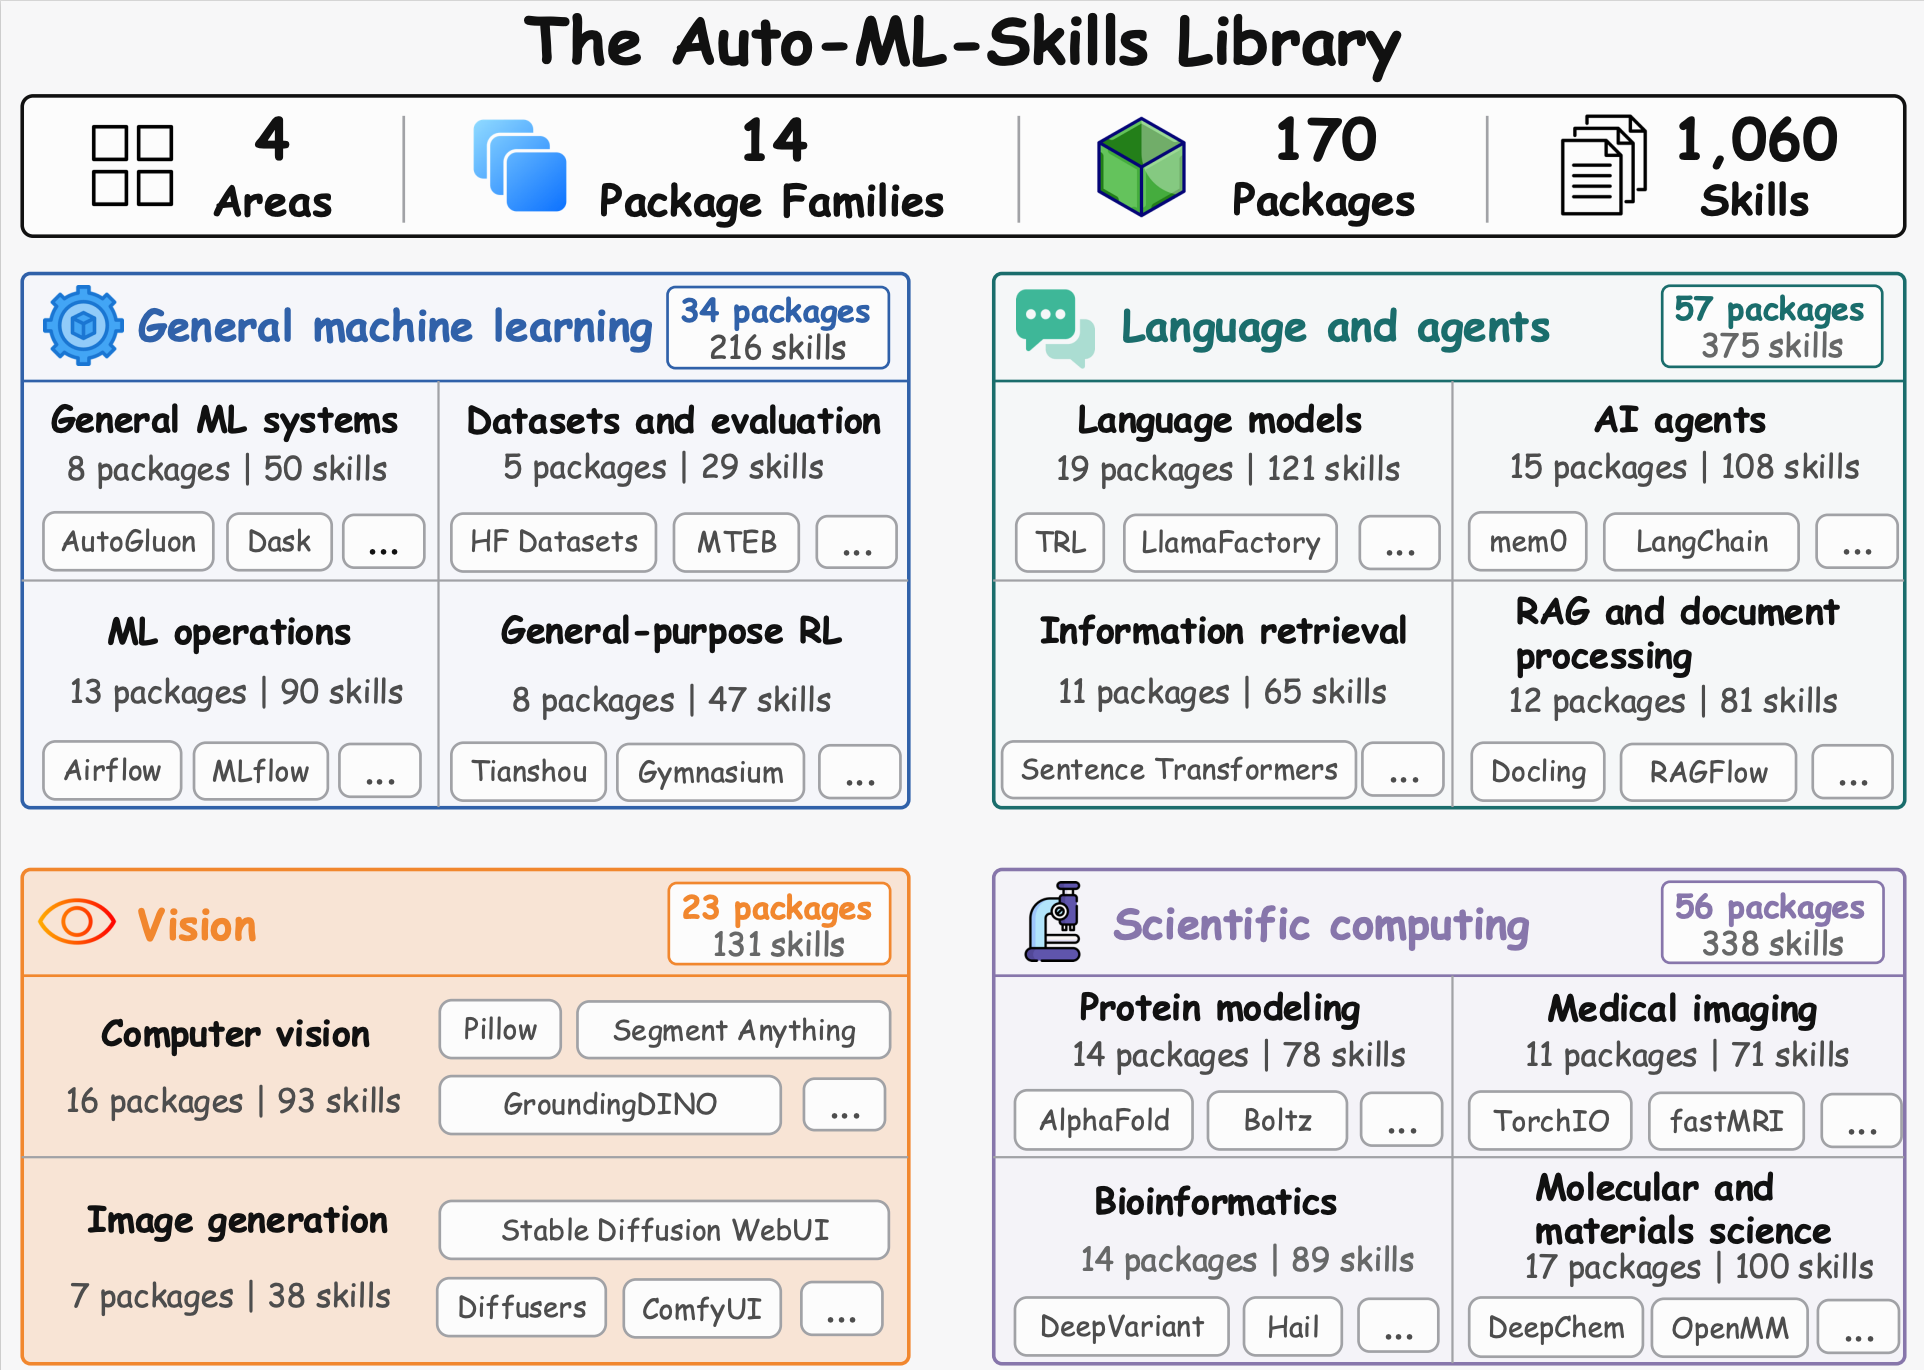
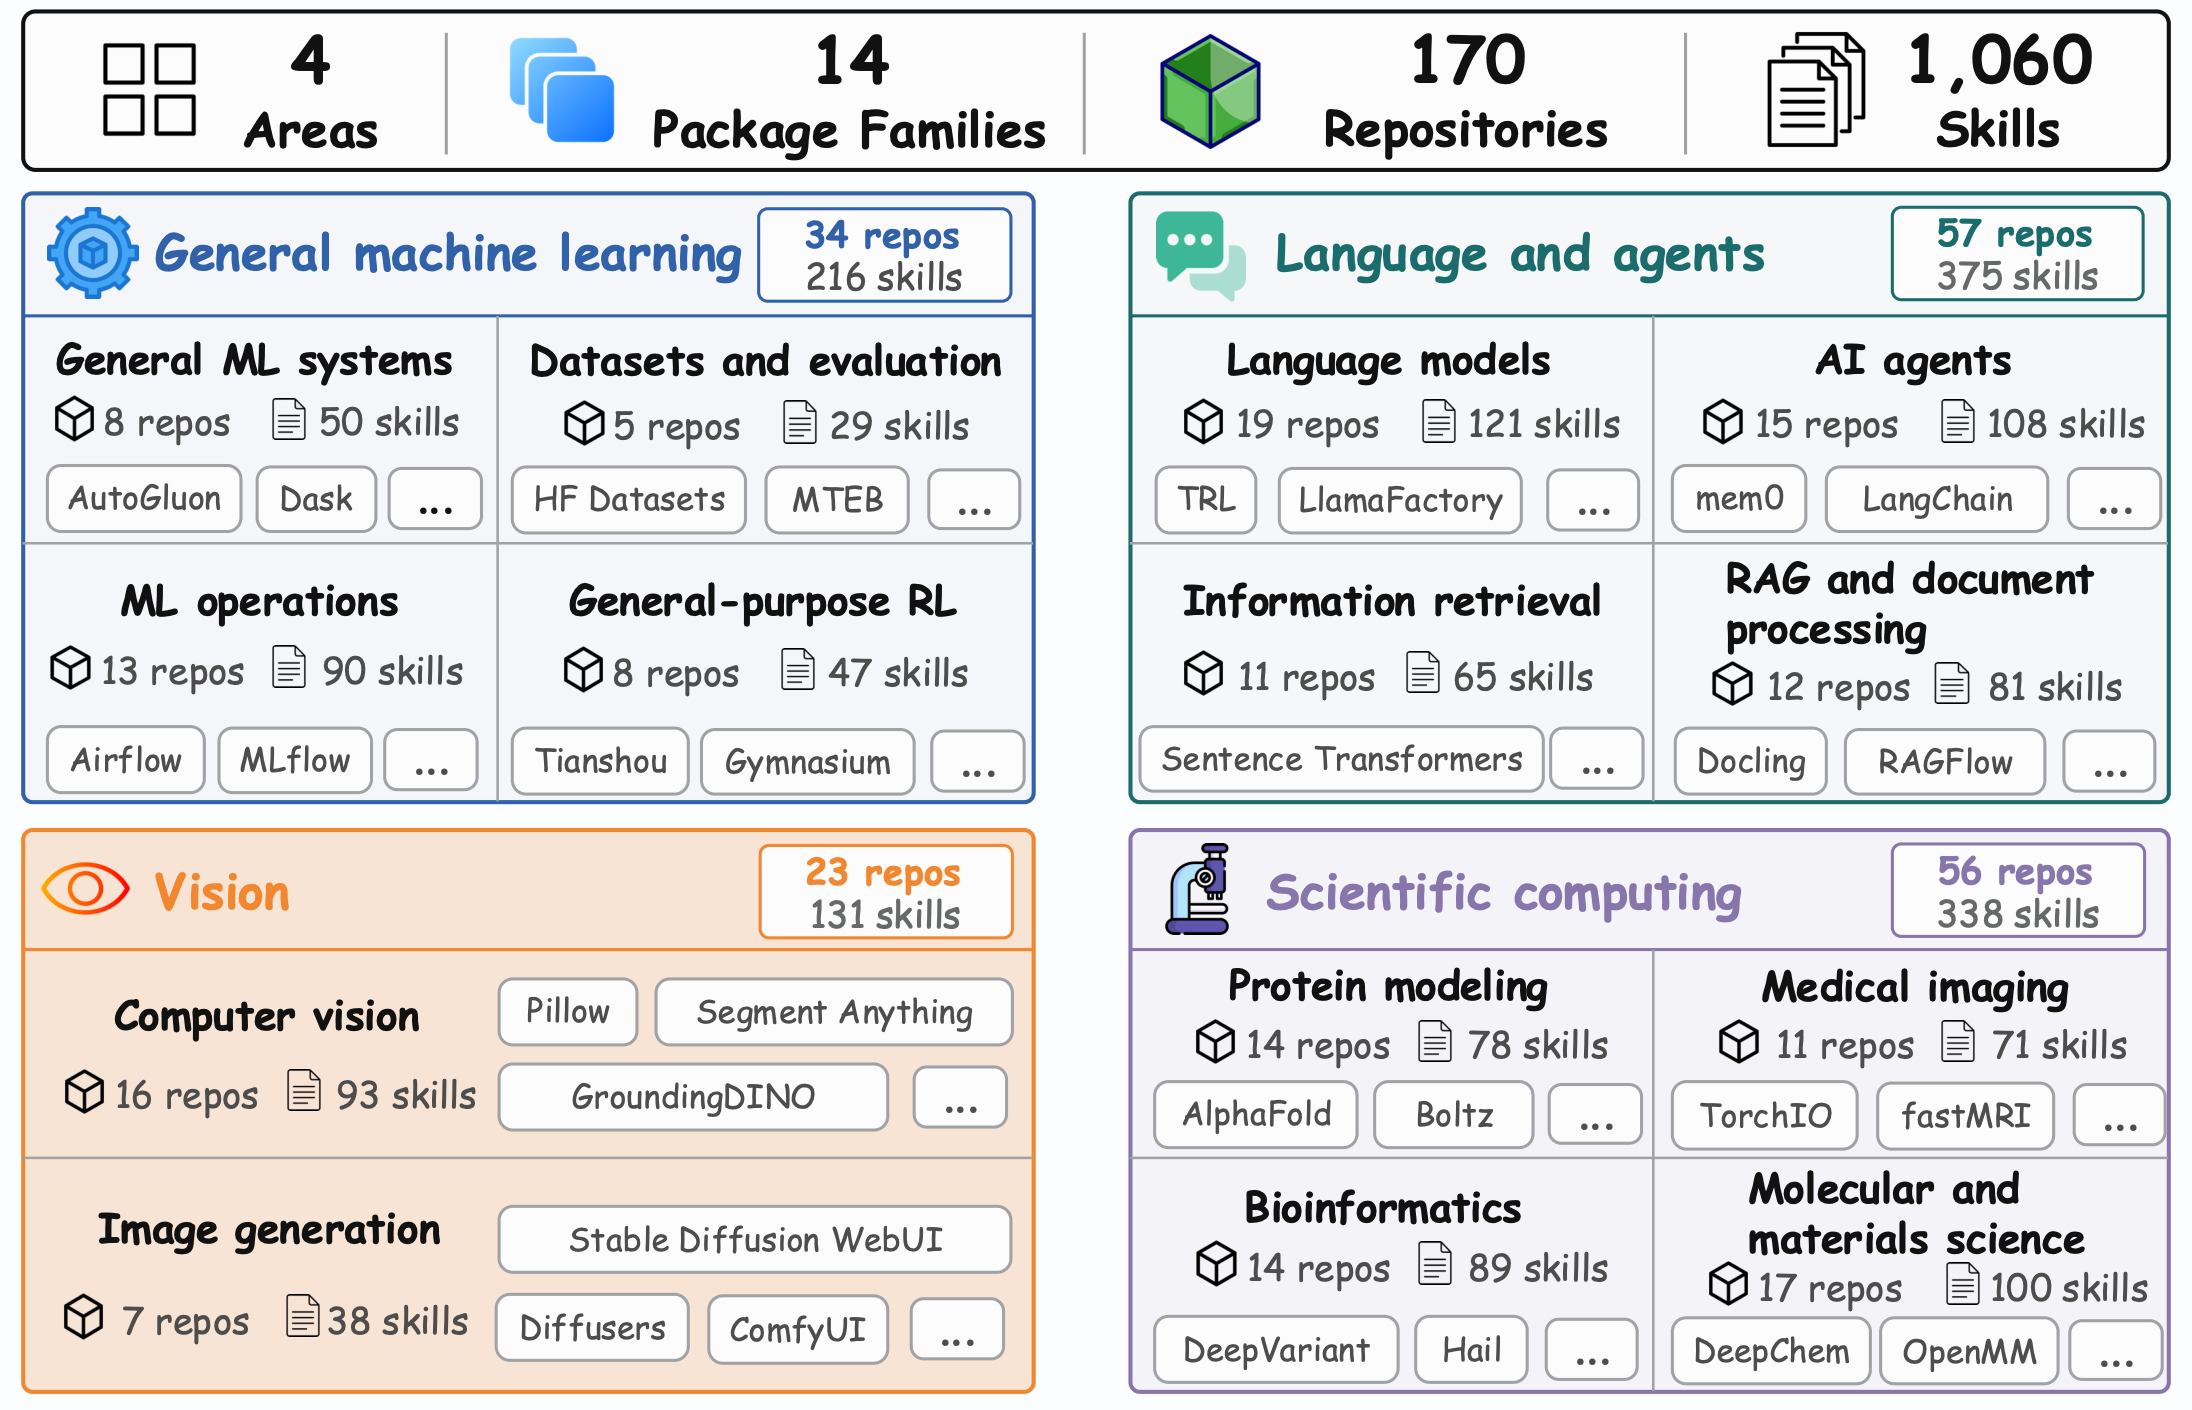
Align library terminology in docs

diff --git a/README.md b/README.md
@@ -29,12 +29,14 @@ task-relevant portion through progressive disclosure and uses code, tools, and
 experiments to complete the research task.
 
 The **Research Skills Library** is the growing collection of these reusable
-skill graphs. Its scope includes repository skills, paper-derived skills,
-task- or benchmark-specific skills, and future domain collections. This public
-checkout currently ships **more than 1,000 operating skills organized into
-graphs for 170 widely used ML and research repositories across 14
-workflow-oriented families**, plus a library-level router. The repository
-collection is therefore part of the library, not its boundary.
+skill graphs. It has two parts: task-agnostic skills distilled from widely
+used ML repositories, and task-oriented skills constructed around specific
+research tasks rather than general package usage.
+This public checkout currently ships the task-agnostic repository collection:
+**more than 1,000 operating skills organized into graphs for 170 widely used
+ML and research repositories across 14 families and four broad areas**, plus a
+library-level router. This repository collection is a first scale point for the
+library, not its boundary.
 
 > **Naming note:** Auto-ML-Skills is the repository name. DisCo is the
 > user-facing CLI/runtime, and the Research Skills Library is the published
@@ -95,7 +97,7 @@ context and applies it to the task.
 | Component | Purpose |
 | --- | --- |
 | [DisCo](src/) | The TypeScript research-agent CLI. Creator constructs and maintains skill graphs; Researcher uses operating skills with code, tools, and experiments. |
-| [Research Skills Library](research-skills-library/) | The reusable operating-knowledge layer. This checkout publishes more than 1,000 skills organized into graphs for 170 widely used repositories, plus their sibling `repo-skills-router`; the library model also supports paper-, task-, benchmark-, and domain-specific collections. |
+| [Research Skills Library](research-skills-library/) | The reusable operating-knowledge layer. This checkout publishes the task-agnostic repository collection: more than 1,000 skills organized into graphs for 170 widely used repositories, plus their sibling `repo-skills-router`. DisCo can also construct task-oriented skills around a specific research task's source constraints, evaluation protocol, and verification conditions. |
 | [Examples](examples/) | Sanitized end-to-end sessions showing Creator building a FlagEmbedding skill graph and Researcher applying Gymnasium and Stable-Baselines3 skills to an auditable battery-dispatch experiment. |
 | [Documentation](docs/) | Workflow, architecture, catalog, deployment, and portability guides. The 15 bundled Creator meta skills remain part of DisCo rather than a separate manual installation. |
 
@@ -113,17 +115,23 @@ session/export behavior, detailed workflows, and deployment rules.
 
 ## 🗂 Library Coverage <a id="library-coverage"></a>
 
-The public repository collection spans four broad areas and 14 workflow
-families. It is built from a curated set of 170 widely used ML and research
+The public repository collection spans 14 families and four broad areas. It is
+built from a curated set of 170 widely used ML and research
 repositories, producing 1,060 root and focused skills with broad coverage of
 training, data, evaluation, agents, retrieval, vision, generation, ML
 operations, and scientific computing.
 
 DisCo's Creator CLI and bundled meta skills provide repeatable workflows for
 creating, verifying, maintaining, and importing new skill graphs. A
-library-level router and progressive disclosure let the library scale across
-more repositories, papers, benchmarks, tasks, and domain collections while
-loading only the skills relevant to the current task.
+library-level router and progressive disclosure let the task-agnostic
+collection scale to more repositories, domains, software stacks, and languages
+while loading only the repository skills relevant to the current task.
+
+Beyond general package usage, DisCo can construct task-oriented skills for
+specific research settings. In that path, the skill graph is organized around
+the operating knowledge required by the task's source constraints, evaluation
+protocol, and verification conditions rather than around one reusable package
+workflow.
 
 ![Overview of the Auto-ML-Skills Library](assets/library.png)
 

diff --git a/research-skills-library/README.md b/research-skills-library/README.md
@@ -1,12 +1,13 @@
 # Research Skills Library
 
 The Research Skills Library is the reusable skill layer for ML research and
-software work. The concept is broader than a Python package catalog: it can
-contain repository skills, task- or benchmark-specific operating skills, paper-
-derived workflows, and future collections contributed for a research domain.
+software work. The library has two parts: task-agnostic operating skills
+distilled from widely used ML repositories, and task-oriented operating skills
+constructed around specific research tasks rather than general package usage.
 This checkout currently publishes more than 1,000 operating skills for a
-curated set of 170 widely used ML and research repositories. It does not claim
-that future task or benchmark collections are already present.
+curated set of 170 widely used ML and research repositories. This directory
+therefore catalogs the task-agnostic repository collection, not the full
+boundary of the library.
 
 ## Current Contents
 
@@ -111,7 +112,10 @@ adding or refreshing a repository graph. Keep structured
 the sibling router rather than editing generated Markdown. The [contribution
 guide](../CONTRIBUTING.md) describes validation and review requirements.
 
-The library layout is intentionally extensible. A future task-related or
-benchmark-specific collection can be added as a sibling collection with its
-own documented ownership and installation rules; do not represent it as a
-Python package merely because it contains executable helpers.
+The library layout is intentionally extensible. Additional task-agnostic
+repository graphs can expand coverage across more domains, software stacks,
+and programming languages. Task-oriented collections should be added as
+sibling collections only when their task scope, source constraints, evaluation
+protocol, verification conditions, ownership, and installation rules are
+documented; do not represent them as Python packages merely because they
+contain executable helpers.

diff --git a/research-skills-library/README.zh-CN.md b/research-skills-library/README.zh-CN.md
@@ -1,12 +1,11 @@
 # Research Skills Library
 
 Research Skills Library 是面向机器学习研究与软件工作的可复用 skill 层。它
-并不只是 Python package catalog：library 可以包含 repository skills、面向特
-定任务或 benchmark 的 operating skills、从论文中提炼的 workflows，以及社区
-为某个研究领域贡献的其他 collections。
+包含两部分：从常用机器学习仓库蒸馏得到的任务无关 operating skills，以及围绕
+具体研究任务而不是通用 package 使用构造的面向任务 operating skills。
 
-当前仓库发布了面向 170 个常用机器学习与研究仓库的 1,000+ 操作技能，并不
-表示未来规划中的 task 或 benchmark collections 已经包含在本仓库中。
+当前目录发布的是面向 170 个常用机器学习与研究仓库的 1,000+ 操作技能，因此
+它记录的是任务无关的 repository collection，而不是整个 library 的边界。
 
 ## 当前内容
 
@@ -101,6 +100,7 @@ graph，以及无法确认跨项目复用价值的 graph，默认安装到
 不要直接修改生成的 Markdown。验证与审阅要求见
 [贡献指南](../CONTRIBUTING_CN.md)。
 
-library 布局有意保留扩展空间。未来可以新增面向任务或 benchmark 的同级
-collection，并为它单独说明归属与安装规则；不能仅仅因为其中包含可执行脚本，
-就把它描述成 Python package collection。
+library 布局有意保留扩展空间。任务无关的 repository graphs 可以继续扩展到
+更多领域、软件栈和编程语言。面向任务的 collections 只有在任务范围、来源约束、
+评测协议、验证条件、归属和安装规则都明确时，才应作为同级 collection 加入；
+不能仅仅因为其中包含可执行脚本，就把它描述成 Python package collection。

diff --git a/docs/imported-repo-skills.md b/docs/imported-repo-skills.md
@@ -4,9 +4,10 @@ This catalog lists the 170 repository skill graphs currently published in the
 `research-skills-library/repo-skills/` collection. These graphs cover a curated
 set of widely used ML and research repositories and contain more than 1,000
 root and focused runtime skills. The broader Research Skills Library can also
-contain task-, benchmark-, paper-, or domain-specific collections; this page
-intentionally catalogs only the repository subset. Each entry links to the
-upstream project and summarizes the workflows its graph is designed to support.
+contain task-oriented skills constructed around specific research tasks; this
+page intentionally catalogs only the task-agnostic repository subset. Each entry
+links to the upstream project and summarizes the workflows its graph is designed
+to support.
 The sibling
 `research-skills-library/repo-skills-router/` directory is a routing index and
 is not counted as a repository graph or runtime skill in this catalog.
